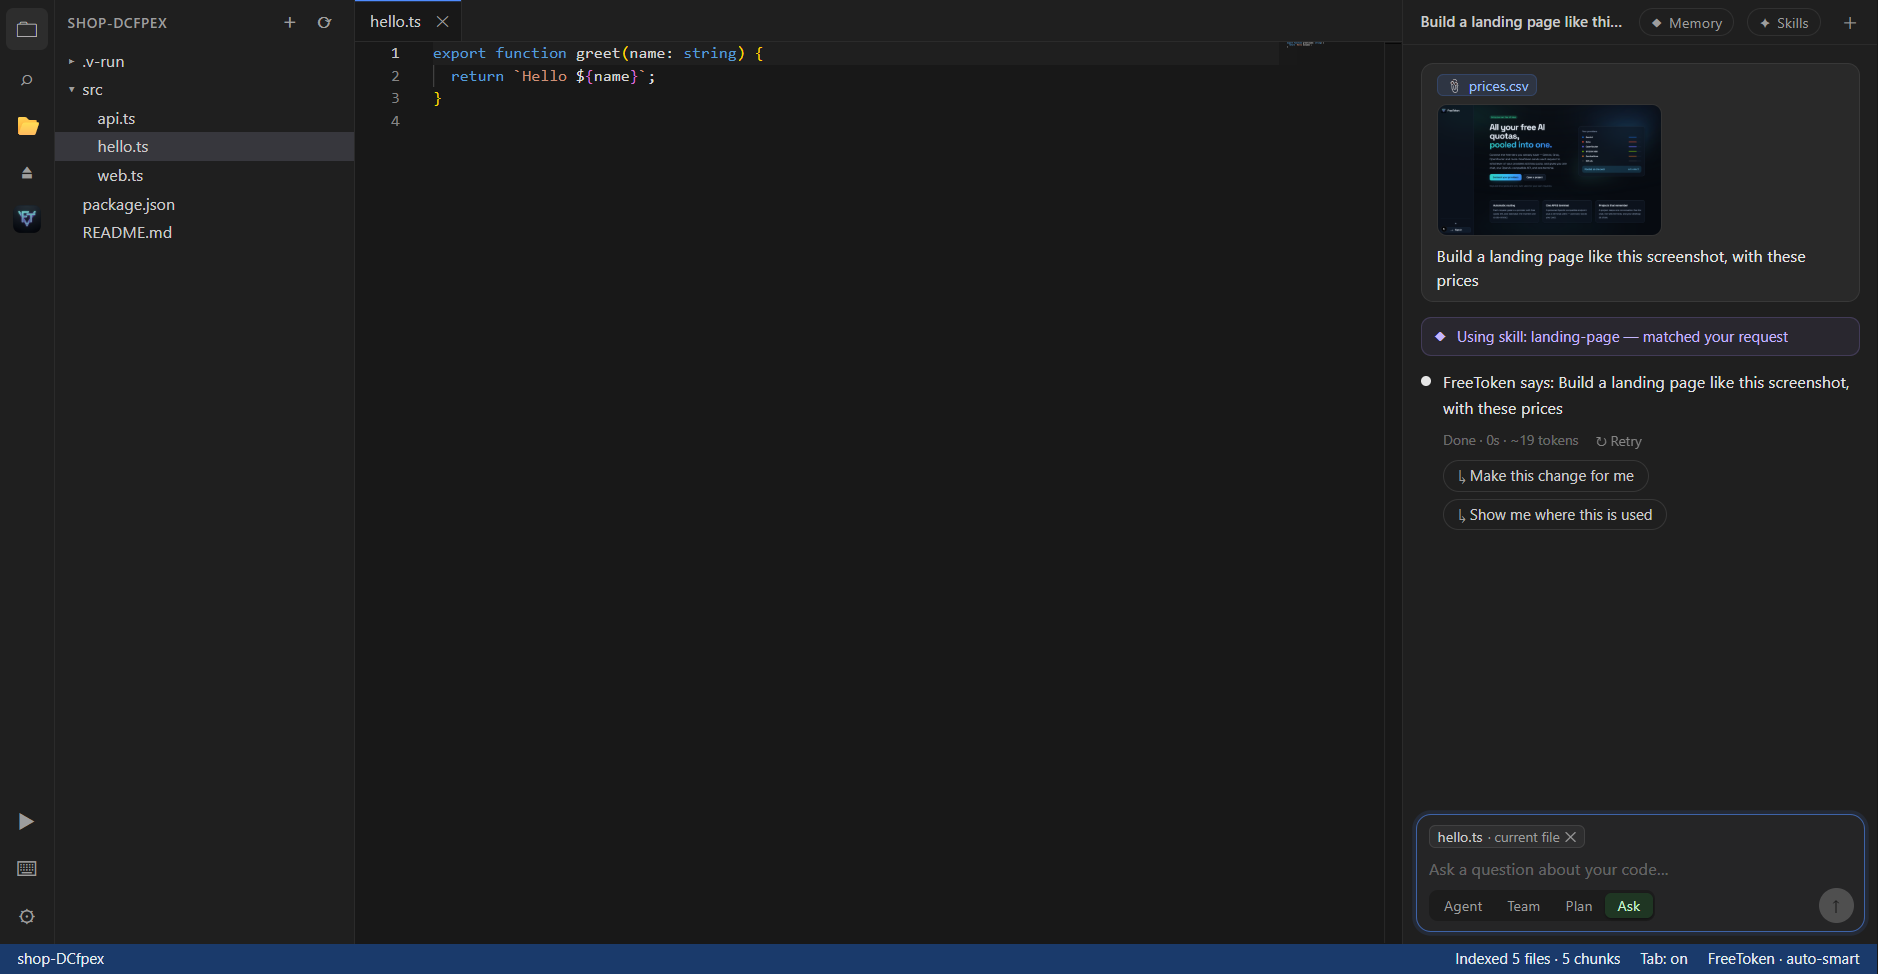
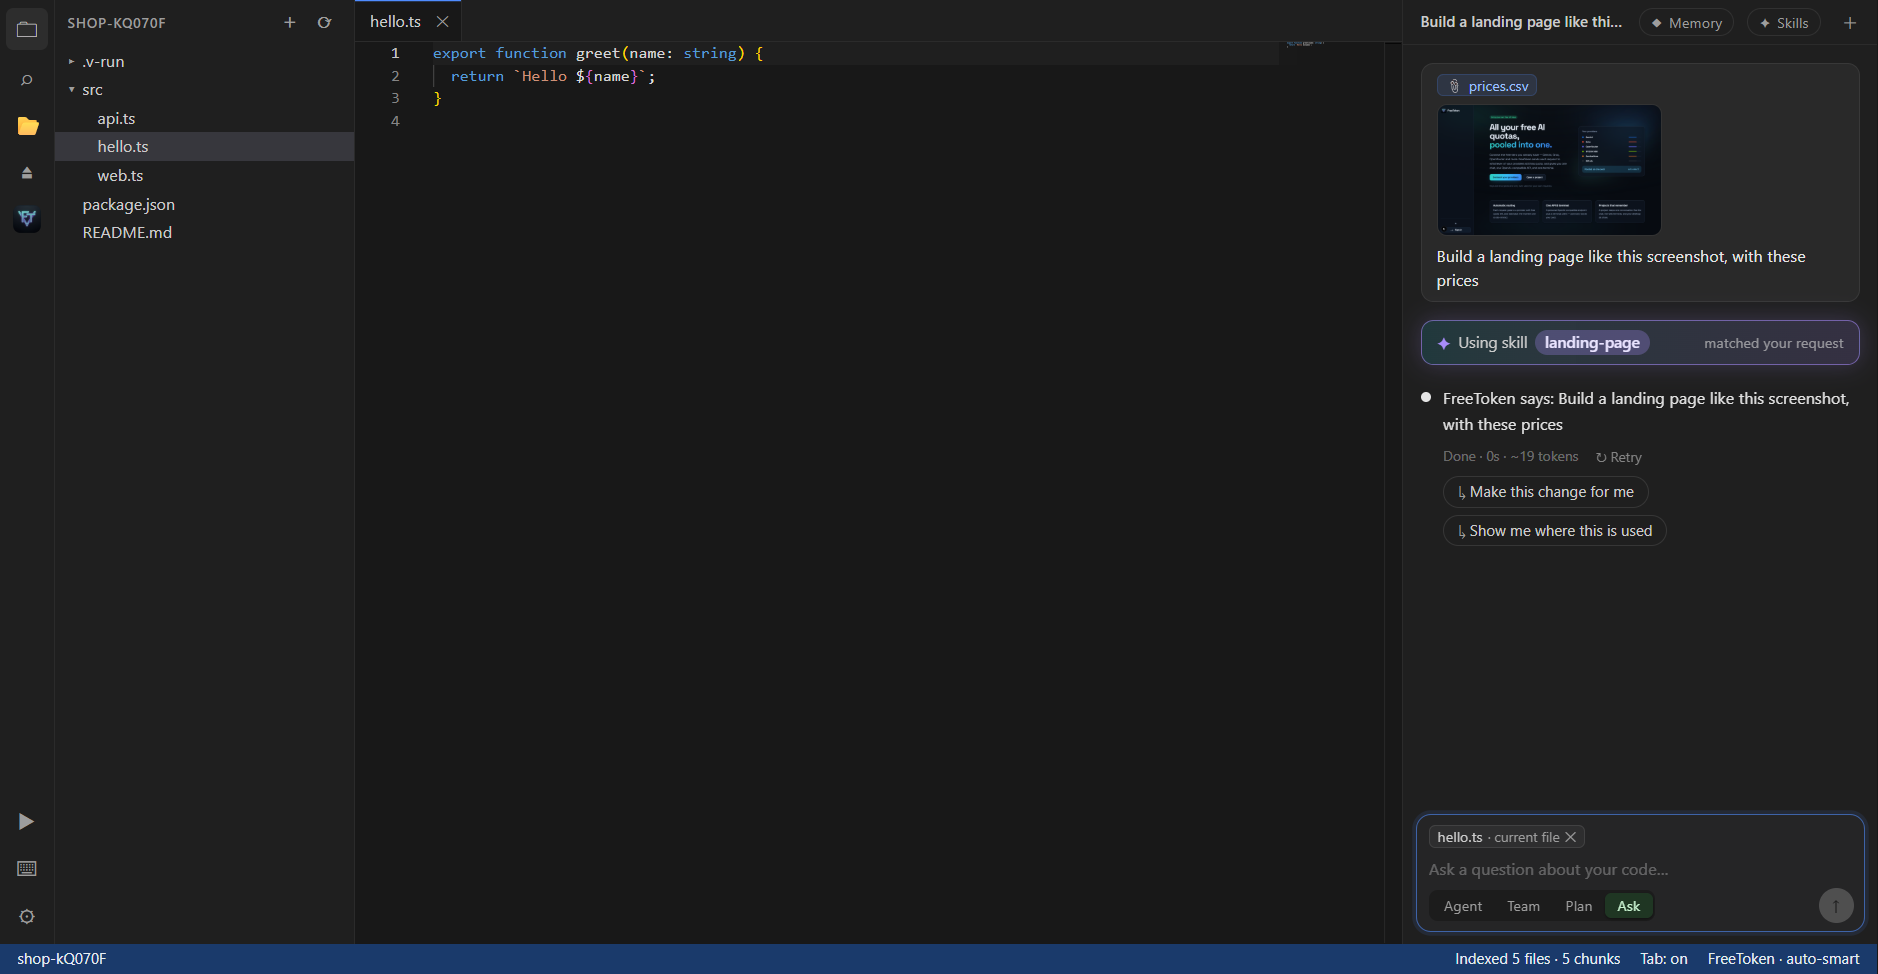
V-Run: a clear 'Using skill' badge; sharper skill matching for redesign requests
- the skill a message uses shows as a highlighted badge under it ('✦ Using skill  frontend-ui ·
  matched your request')
- matching ignores 1-2 letter leftovers and everyday words; 'redesign' no longer expands to the
  generic 'design' every visual skill mentions; frontend-ui's description covers redesigning apps,
  colors, layout and 'make it look nicer / futuristic'
- 'redesign the entire app…' and 'make it futuristic, change the color layout' now load frontend-ui

Changed region(s): [[0.7412, 0.3388, 0.9883, 0.5544], [0.0309, 0.9548, 0.0618, 1.0], [0.0618, 0.0, 0.0927, 0.0308]]

diff --git a/desktop/src/main/skills.ts b/desktop/src/main/skills.ts
@@ -105,8 +105,9 @@ export async function loadSkill(name: string, file?: string) {
   return { skill: s, text: md.length > MAX_SKILL_CHARS ? `${md.slice(0, MAX_SKILL_CHARS)}\n…(truncated)` : md, files };
 }
 
-const STOP = new Set("the and for with that this from into your you are use using when what which will can should make made build create add new any all some about how need want like just also have has get one two more most very only than then them they its it's our out".split(" "));
+const STOP = new Set("it is be do so to of in on at as by an or no go up we me my us am if the and for with that this from into your you are use using when what which will can should make made build create add new any all some about how need want like just also have has get one two more most very only than then them they its it's our out".split(" "));
 // "animate"/"animation"/"animated" → "animat"; "tests"/"testing" → "test"
+const SHORT = new Set(["ui", "ux", "3d", "ai", "js", "db", "pr", "ci", "qa", "go"]);
 const stem = (w: string) => w.replace(/(?:ations?|ings?|ions?|ed|es|ly|e|s)$/, "").slice(0, 6) || w.slice(0, 6);
 const rawWords = (t: string) => (t.toLowerCase().match(/[a-z0-9][a-z0-9+#.]*/g) ?? []).map((w) => w.replace(/\.+$/, "")).filter((w) => w.length > 1 && !STOP.has(w));
 /** Everyday words that mean a skill's vocabulary: "login" → auth, "slow" → performance, "bug" → debugging. */
@@ -119,13 +120,15 @@ const ALIASES: Record<string, string[]> = {
   game: ["game"], snake: ["game"], tetris: ["game"], logo: ["svg", "logo"], icon: ["svg", "icons"],
   deploy: ["deploy", "deployment"], docker: ["docker"], db: ["database"], sql: ["database"], schema: ["database"],
   animate: ["animation"], motion: ["animation"], scroll: ["scroll", "animation"],
-  redesign: ["redesign", "design", "ui"], restyle: ["redesign", "style"], look: ["design", "ui"], ugly: ["design", "polish"], modern: ["design"], nicer: ["polish", "design"],
+  redesign: ["redesign", "restyle"], restyle: ["redesign", "restyle"], look: ["design", "ui"], ugly: ["design", "polish"], modern: ["design"], nicer: ["polish", "design"],
   commit: ["git"], branch: ["git"], pr: ["git"], endpoint: ["api"], rest: ["api"],
 };
 const words = (t: string, expand = false) => {
   const out = new Set<string>();
   for (const w of rawWords(t)) {
-    if (!STOP.has(stem(w))) out.add(stem(w)); // "adding" becomes "add": still an everyday word
+    const st = stem(w);
+    // "adding" becomes "add": still an everyday word; and 1–2 letter leftovers carry no meaning (but ui, ux, 3d, ai do)
+    if (!STOP.has(st) && (st.length > 2 || SHORT.has(st))) out.add(st);
     if (expand) for (const a of ALIASES[w] ?? []) for (const x of rawWords(a)) out.add(stem(x));
   }
   return out;
@@ -136,7 +139,7 @@ const words = (t: string, expand = false) => {
  * and description (its "when to use" line). Rare words count more than words many skills share (like
  * "page" or "app"); a name word counts double; a weak overlap loads nothing.
  */
-export async function matchSkills(request: string, max = 2, skip: Set<string> = new Set()) {
+export async function matchSkills(request: string, max = 2, skip: Set<string> = new Set(), debug?: (scores: { name: string; score: number; hits: string[] }[]) => void) {
   const req = words(request, true);
   if (!req.size) return [] as Skill[];
   const all = (await listSkills()).map((s) => ({ s, name: words(s.name.replace(/-/g, " ")), desc: words(s.description) }));
@@ -145,12 +148,15 @@ export async function matchSkills(request: string, max = 2, skip: Set<string> = 
   const weight = (w: string) => Math.log(1 + all.length / (df.get(w) ?? 1));
   const scored = all.filter((x) => !skip.has(x.s.name)).map((x) => {
     let score = 0;
-    for (const w of req) score += x.name.has(w) ? 2 * weight(w) : x.desc.has(w) ? weight(w) : 0;
-    return { s: x.s, score };
-  }).filter((x) => x.score >= MATCH_THRESHOLD);
-  scored.sort((a, b) => b.score - a.score);
+    const hits: string[] = [];
+    for (const w of req) { const add = x.name.has(w) ? 2 * weight(w) : x.desc.has(w) ? weight(w) : 0; if (add) { score += add; hits.push(w); } }
+    return { s: x.s, score, hits };
+  });
+  debug?.([...scored].sort((a, b) => b.score - a.score).slice(0, 5).map((x) => ({ name: x.s.name, score: Math.round(x.score * 10) / 10, hits: x.hits })));
+  const strong = scored.filter((x) => x.score >= MATCH_THRESHOLD);
+  strong.sort((a, b) => b.score - a.score);
   // a second skill only when it's nearly as good a match as the first
-  return scored.filter((x, i) => i === 0 || x.score >= scored[0].score * 0.85).slice(0, max).map((x) => x.s);
+  return strong.filter((x, i) => i === 0 || x.score >= strong[0].score * 0.9).slice(0, max).map((x) => x.s);
 }
 export const MATCH_THRESHOLD = 4.5;
 

diff --git a/desktop/src/renderer/Chat.tsx b/desktop/src/renderer/Chat.tsx
@@ -21,7 +21,8 @@ type Item =
   | { kind: "error"; text: string }
   | { kind: "turn"; ms: number; tokens: number; estimated: boolean; reason: string; tools: number; mode: Mode; next: string[]; synced?: true | string }
   | { kind: "history"; name: string; messages: FtProject["messages"] }
-  | { kind: "note"; text: string };
+  | { kind: "note"; text: string }
+  | { kind: "skills"; names: string[]; auto: boolean };
 
 // display name, the input field shown in brackets, and the status-line verb
 const TOOLS: Record<string, { label: string; arg?: string; verb: string }> = {
@@ -277,7 +278,7 @@ export function ChatPanel(props: {
           next.push({ kind: "note", text: `Learned skill${e.name.includes(",") ? "s" : ""}: ${e.name}` });
           break;
         case "skills_used":
-          next.push({ kind: "note", text: `Using skill${e.names.length > 1 ? "s" : ""}: ${e.names.join(", ")}${e.auto ? " — matched your request" : ""}` });
+          next.push({ kind: "skills", names: e.names, auto: e.auto });
           break;
         case "progress": {
           const i = next.findIndex((x) => x.kind === "tool" && x.id === e.id);
@@ -615,6 +616,14 @@ export function ChatPanel(props: {
               case "thinking": return <Thinking key={i} t={r} />;
               case "history": return <History key={i} name={r.name} messages={r.messages} />;
               case "note": return <div key={i} className="mem-note" role="status"><span aria-hidden>◆</span>{r.text}</div>;
+              case "skills": return (
+                <div key={i} className="skill-badge" role="status" aria-label={`Using skill: ${r.names.join(", ")}`}>
+                  <span className="skill-badge-icon" aria-hidden>✦</span>
+                  <span>Using skill{r.names.length > 1 ? "s" : ""}</span>
+                  {r.names.map((n) => <b key={n} className="skill-badge-name">{n}</b>)}
+                  <span className="skill-badge-why">{r.auto ? "matched your request" : "you picked it"}</span>
+                </div>
+              );
               case "text": return <AiText key={i} text={r.text} streaming={busy && i === rows.length - 1} />;
               case "tool": return <ToolRow key={r.id} t={r} waiting={waiting?.id === r.id} />;
               case "approval": return <Approval key={`a${r.id}`} a={r} tool={items.find((x): x is ToolItem => x.kind === "tool" && x.id === r.id)} onDecide={decide} />;

diff --git a/desktop/src/renderer/styles.css b/desktop/src/renderer/styles.css
@@ -580,3 +580,11 @@ kbd { font: 11px "Cascadia Code", Consolas, monospace; background: #ffffff10; bo
 .skill-group + .skill-group { margin-top: 8px; }
 .skill-group-title { font-size: 11px; font-weight: 600; text-transform: uppercase; letter-spacing: .06em; opacity: .7; padding: 2px 2px 0; }
 .skill-group-title span { margin-left: 4px; padding: 0 6px; border-radius: 99px; background: color-mix(in srgb, var(--accent, #38d6ff) 18%, transparent); color: var(--accent, #38d6ff); }
+
+/* "Using skill" badge under the user's message */
+.skill-badge { display: flex; flex-wrap: wrap; align-items: center; gap: 6px; margin: 2px 0 6px; padding: 7px 12px; border-radius: 10px; font-size: 12.5px;
+  border: 1px solid color-mix(in srgb, #a78bfa 55%, transparent); background: linear-gradient(90deg, color-mix(in srgb, #22d3ee 14%, transparent), color-mix(in srgb, #a78bfa 16%, transparent));
+  box-shadow: 0 0 18px color-mix(in srgb, #a78bfa 22%, transparent); animation: hub-rise .3s ease-out both; }
+.skill-badge-icon { color: #a78bfa; font-size: 14px; }
+.skill-badge-name { padding: 1px 8px; border-radius: 99px; background: color-mix(in srgb, #a78bfa 28%, transparent); color: #e9e3ff; font-weight: 600; }
+.skill-badge-why { opacity: .65; font-size: 11.5px; margin-left: auto; }

diff --git a/desktop/test/readme-shots.ts b/desktop/test/readme-shots.ts
@@ -70,12 +70,11 @@ const tmp = (p: string) => fs.mkdtempSync(path.join(os.tmpdir(), p));
     const drop = await page.evaluateHandle(() => { const dt = new DataTransfer(); dt.items.add(new File(["name,price\nTea,3.50\nCoffee,4.00\n"], "prices.csv", { type: "text/csv" })); return dt; });
     await chat.dispatchEvent("dragover", { dataTransfer: drop });
     await page.getByText("Drop to attach").waitFor({ timeout: 3000 });
-    await shot("vrun-drop.png");
     await chat.dispatchEvent("drop", { dataTransfer: drop });
     await page.locator(".chip.attach", { hasText: "prices.csv" }).waitFor();
     await box.fill("Build a landing page like this screenshot, with these prices");
     await box.press("Enter");
-    await page.locator(".mem-note", { hasText: "Using skill" }).waitFor({ timeout: 15000 });
+    await page.locator(".skill-badge").waitFor({ timeout: 15000 });
     await page.locator(".msg-ai").last().waitFor();
     await shot("vrun-attachments.png");
   } finally {

diff --git a/desktop/src/main/ai.ts b/desktop/src/main/ai.ts
@@ -409,7 +409,7 @@ export const toolDetail = (name: string, r: ToolOutput) => r.detail ?? (SHOW_OUT
 export async function skillContext(s: Session, req: Pick<ChatRequest, "text" | "skills">, emit: (e: AgentEvent) => void) {
   const picked = (req.skills ?? []).filter((n) => !s.skills.has(n));
   // in a web project, "redesign the app" is web design work: match it as such
-  const ask = isWebTask(req.text, isWebProject(getRoot())) && !isVideoTask(req.text) ? `${req.text} (website UI design, styling, layout)` : req.text;
+  const ask = isWebTask(req.text, isWebProject(getRoot())) && !isVideoTask(req.text) ? `${req.text} (website UI)` : req.text;
   const auto = (await skills.matchSkills(ask, 2, new Set([...s.skills, ...picked])).catch(() => [])).map((x) => x.name);
   const parts = [...(await skills.pickedSkillsContext(picked)), ...(await skills.pickedSkillsContext(auto, true))];
   for (const n of [...picked, ...auto]) s.skills.add(n);

diff --git a/desktop/test/e2e-freetoken.ts b/desktop/test/e2e-freetoken.ts
@@ -276,7 +276,7 @@ async function main() {
       const box = page.getByLabel("Message the AI");
       await box.fill("Make the hero section animate on scroll");
       await box.press("Enter");
-      await page.locator(".mem-note", { hasText: "Using skill: web-animation — matched your request" }).waitFor({ timeout: 15000 });
+      await page.getByRole("status", { name: "Using skill: web-animation" }).waitFor({ timeout: 15000 });
       const user = fake.requests.slice(before).find((r: any) => r.messages)?.messages.filter((m: any) => m.role === "user").at(-1);
       if (!String(user?.content).includes('The skill "web-animation" matches this request')) throw new Error("skill not in the request");
     });

diff --git a/desktop/skills/frontend-ui/SKILL.md b/desktop/skills/frontend-ui/SKILL.md
@@ -1,6 +1,6 @@
 ---
 name: frontend-ui
-description: "Build polished UI components and pages: layout, spacing and type scales, color tokens, interaction states, forms, responsive breakpoints, dark mode, icons and accessibility basics, in plain HTML + Tailwind CDN or React. Use when the user asks to build, style, redesign or polish a page, component, form, card, navbar, modal or any interface."
+description: "Build and redesign websites and web app interfaces that look professionally designed: visual direction, color palette and theme, layout, spacing and type scales, components and interaction states, forms, responsive breakpoints, dark mode, icons, imagery and accessibility basics, in plain HTML + Tailwind CDN or React. Use when the user asks to build, style, redesign, restyle, modernize or polish a site, app, page, component, form, card, navbar or modal, change its colors or layout, or make it look better, nicer, modern, futuristic or less generic."
 ---
 
 # Frontend UI
